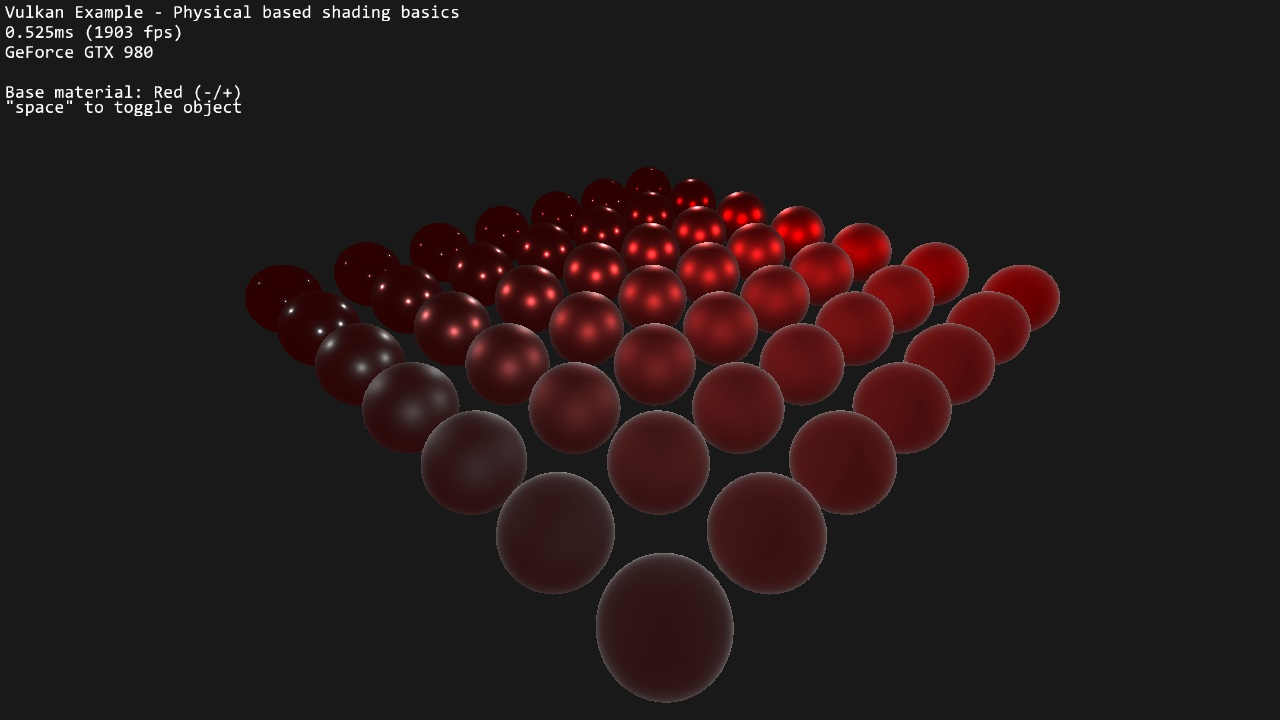
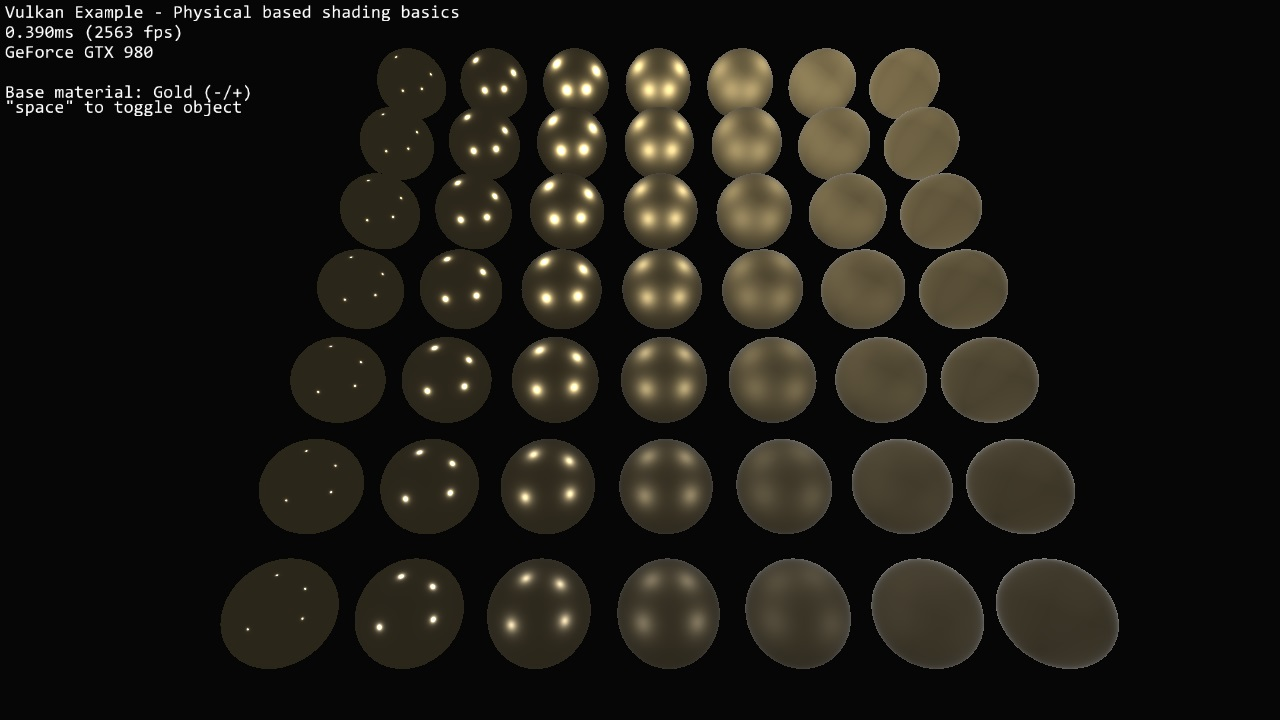
PBR examples minor tweaks and updated screenshots

diff --git a/pbrbasic/pbrbasic.cpp b/pbrbasic/pbrbasic.cpp
@@ -96,8 +96,8 @@ public:
 		title = "Vulkan Example - Physical based shading basics";
 		enableTextOverlay = true;
 		camera.type = Camera::CameraType::firstperson;
-		camera.setPosition(glm::vec3(13.0f, 8.0f, -10.0f));
-		camera.setRotation(glm::vec3(-31.75f, 45.0f, 0.0f));
+		camera.setPosition(glm::vec3(10.0f, 13.0f, 1.8f));
+		camera.setRotation(glm::vec3(-62.5f, 90.0f, 0.0f));
 		camera.movementSpeed = 4.0f;
 		camera.setPerspective(60.0f, (float)width / (float)height, 0.1f, 256.0f);
 		camera.rotationSpeed = 0.25f;
@@ -118,7 +118,7 @@ public:
 		materials.push_back(Material("Blue", glm::vec3(0.0f, 0.0f, 1.0f), 0.1f, 1.0f));
 		materials.push_back(Material("Black", glm::vec3(0.0f), 0.1f, 1.0f));
 
-		materialIndex = 8;
+		materialIndex = 0;
 	}
 
 	~VulkanExample()
@@ -138,22 +138,12 @@ public:
 		uniformBuffers.params.destroy();
 	}
 
-	void reBuildCommandBuffers()
-	{
-		if (!checkCommandBuffers())
-		{
-			destroyCommandBuffers();
-			createCommandBuffers();
-		}
-		buildCommandBuffers();
-	}
-
 	void buildCommandBuffers()
 	{
 		VkCommandBufferBeginInfo cmdBufInfo = vks::initializers::commandBufferBeginInfo();
 
 		VkClearValue clearValues[2];
-		clearValues[0].color = { { 0.1f, 0.1f, 0.1f, 1.0f } };
+		clearValues[0].color = defaultClearColor;
 		clearValues[1].depthStencil = { 1.0f, 0 };
 
 		VkRenderPassBeginInfo renderPassBeginInfo = vks::initializers::renderPassBeginInfo();
@@ -207,7 +197,7 @@ public:
 				for (uint32_t x = 0; x < GRID_DIM; x++) {
 					glm::vec3 pos = glm::vec3(float(x - (GRID_DIM / 2.0f)) * 2.5f, 0.0f, float(y - (GRID_DIM / 2.0f)) * 2.5f);
 					vkCmdPushConstants(drawCmdBuffers[i], pipelineLayout, VK_SHADER_STAGE_VERTEX_BIT, 0, sizeof(glm::vec3), &pos);
-					mat.params.metallic = (float)x / (float)(GRID_DIM - 1);
+					mat.params.metallic = glm::clamp((float)x / (float)(GRID_DIM - 1), 0.1f, 1.0f);
 					mat.params.roughness = glm::clamp((float)y / (float)(GRID_DIM - 1), 0.05f, 1.0f);
 					vkCmdPushConstants(drawCmdBuffers[i], pipelineLayout, VK_SHADER_STAGE_FRAGMENT_BIT, sizeof(glm::vec3), sizeof(Material::PushBlock), &mat);
 					vkCmdDrawIndexed(drawCmdBuffers[i], models.objects[models.objectIndex].indexCount, 1, 0, 0, 0);
@@ -475,7 +465,7 @@ public:
 			models.objectIndex = 0;
 		}
 		updateUniformBuffers();
-		reBuildCommandBuffers();
+		buildCommandBuffers();
 	}
 
 	void toggleMaterial(int32_t dir)
@@ -487,7 +477,7 @@ public:
 		if (materialIndex > static_cast<int32_t>(materials.size()) - 1) {
 			materialIndex = 0;
 		}
-		reBuildCommandBuffers();
+		buildCommandBuffers();
 		updateTextOverlay();
 	}
 

diff --git a/pbribl/pbribl.cpp b/pbribl/pbribl.cpp
@@ -91,7 +91,7 @@ public:
 
 	struct UBOParams {
 		glm::vec4 lights[4];
-		float exposure = 2.0f;
+		float exposure = 4.5f;
 		float gamma = 2.2f;
 	} uboParams;
 
@@ -114,7 +114,7 @@ public:
 
 	VulkanExample() : VulkanExampleBase(ENABLE_VALIDATION)
 	{
-		title = "VK PBR IBL";
+		title = "Vulkan Example - PBR with image based lighting";
 
 		enableTextOverlay = true;
 		camera.type = Camera::CameraType::firstperson;
@@ -227,13 +227,11 @@ public:
 
 #define SINGLE_ROW 1	
 #ifdef SINGLE_ROW
-			mat.params.metallic = 1.0;
-
 			uint32_t objcount = 10;
 			for (uint32_t x = 0; x < objcount; x++) {
 				glm::vec3 pos = glm::vec3(float(x - (objcount / 2.0f)) * 2.15f, 0.0f, 0.0f);
-				mat.params.roughness = glm::clamp((float)x / (float)objcount, 0.005f, 1.0f);
-				mat.params.metallic = 1.0f - glm::clamp((float)x / (float)objcount, 0.005f, 1.0f);
+				mat.params.roughness = 1.0f-glm::clamp((float)x / (float)objcount, 0.005f, 1.0f);
+				mat.params.metallic = glm::clamp((float)x / (float)objcount, 0.005f, 1.0f);
 				vkCmdPushConstants(drawCmdBuffers[i], pipelineLayout, VK_SHADER_STAGE_VERTEX_BIT, 0, sizeof(glm::vec3), &pos);
 				vkCmdPushConstants(drawCmdBuffers[i], pipelineLayout, VK_SHADER_STAGE_FRAGMENT_BIT, sizeof(glm::vec3), sizeof(Material::PushBlock), &mat);
 				vkCmdDrawIndexed(drawCmdBuffers[i], models.objects[models.objectIndex].indexCount, 1, 0, 0, 0);
@@ -1438,7 +1436,7 @@ public:
 		// 3D object
 		uboMatrices.projection = camera.matrices.perspective;
 		uboMatrices.view = camera.matrices.view;
-		uboMatrices.model = glm::rotate(glm::mat4(), glm::radians(90.0f + (models.objectIndex == 1 ? -45.0f : 0.0f)), glm::vec3(0.0f, 1.0f, 0.0f));
+		uboMatrices.model = glm::rotate(glm::mat4(), glm::radians(90.0f + (models.objectIndex == 1 ? 45.0f : 0.0f)), glm::vec3(0.0f, 1.0f, 0.0f));
 		uboMatrices.camPos = camera.position * -1.0f;
 		memcpy(uniformBuffers.object.mapped, &uboMatrices, sizeof(uboMatrices));
 

diff --git a/pbrtexture/main.cpp b/pbrtexture/main.cpp
@@ -97,7 +97,7 @@ public:
 
 	VulkanExample() : VulkanExampleBase(ENABLE_VALIDATION)
 	{
-		title = "Vulkan textured PBR using IBL";
+		title = "Vulkan Example - Textured PBR with IBL";
 
 		enableTextOverlay = true;
 		camera.type = Camera::CameraType::firstperson;
@@ -1385,7 +1385,7 @@ public:
 		// 3D object
 		uboMatrices.projection = camera.matrices.perspective;
 		uboMatrices.view = camera.matrices.view;
-		uboMatrices.model = glm::rotate(glm::mat4(), glm::radians(90.0f), glm::vec3(0.0f, 1.0f, 0.0f));
+		uboMatrices.model = glm::rotate(glm::mat4(), glm::radians(-90.0f), glm::vec3(0.0f, 1.0f, 0.0f));
 		uboMatrices.camPos = camera.position * -1.0f;
 		memcpy(uniformBuffers.object.mapped, &uboMatrices, sizeof(uboMatrices));
 
